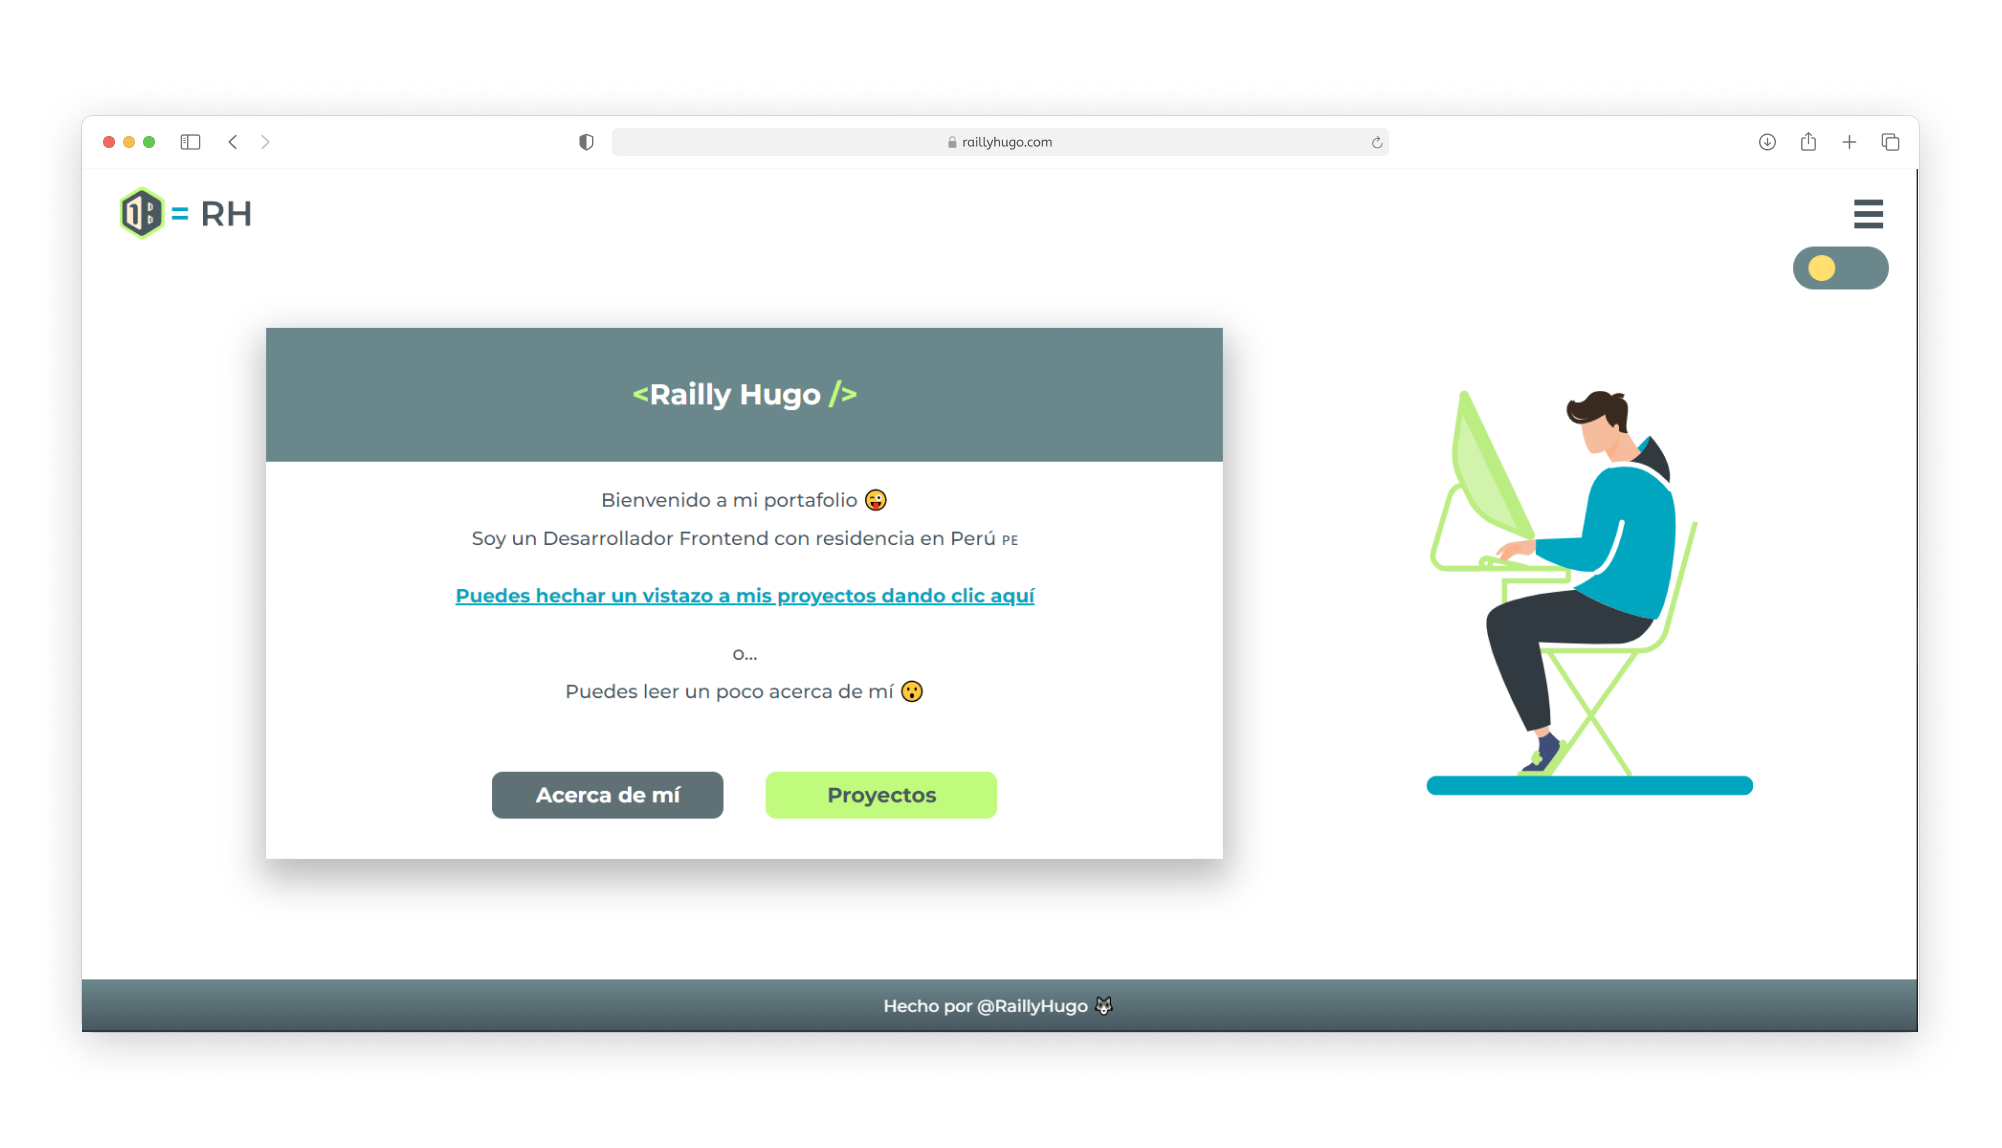
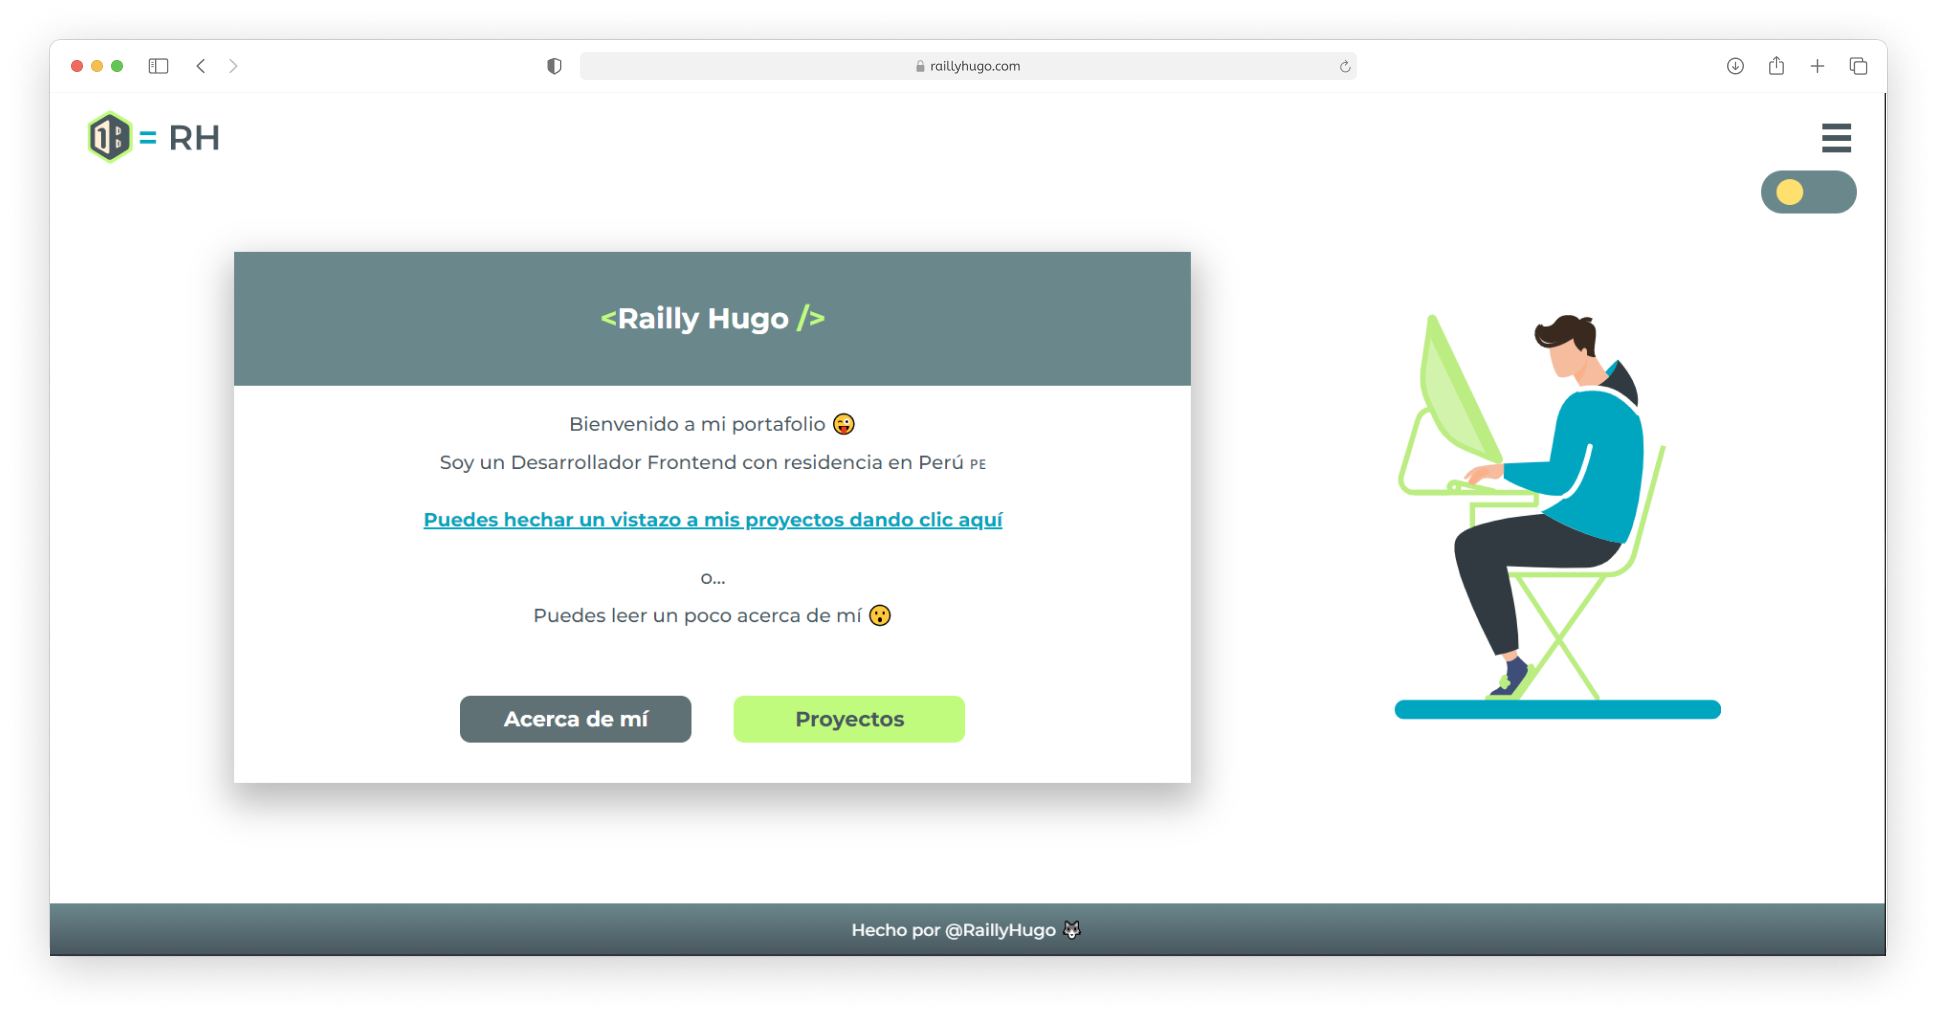
create new projects.mdx

diff --git a/pages/blog/[slug].js b/pages/blog/[slug].js
@@ -59,14 +59,14 @@ export default function PostPage({ meta, code }) {
       <div className="container max-w-3xl mx-auto px-4">
         <Heading.H1>{meta.title}</Heading.H1>
 
-        <div className="flex justify-evenly font-medium py-1 mt-4 dark:bg-opacity-50 text-indigo-600 bg-indigo-50 w-72 px-1 rounded-xl dark:text-gray-200 dark:bg-blue-700/30">
+        <div className="flex justify-evenly items-center font-medium py-1 mt-4 dark:bg-opacity-50 text-indigo-600 bg-indigo-50 w-72 px-1 rounded-xl dark:text-gray-200 dark:bg-blue-700/30">
           <Image
             className="rounded-full"
-            src="/profile.png"
-            width={25}
-            height={25}
+            src="/profile-3.png"
+            width={30}
+            height={30}
           />
-          <div>{`Railly Hugo`}</div>
+          <div className="font-bold">{`Railly Hugo`}</div>
           <div>{` => `}</div>
           <div>{format(parseISO(meta.publishedAt), "MMMM dd, yyyy")}</div>
         </div>

diff --git a/components/Markdown/index.js b/components/Markdown/index.js
@@ -6,20 +6,30 @@ import List from "./List";
 import Code from "./Pre";
 import Quote from "./Quote";
 import Strong from "./Strong";
+import Table from "./Table";
+import TableRow from "./TableRow";
+import TableCell from "./TableCell";
 import Text from "./Text";
+import Hr from "./Br";
 
 export const components = {
+  Anchor,
   Button,
   Image: ImageMd,
+  hr: Hr,
   a: Anchor,
+  blockquote: Quote,
   code: Code,
   h1: Heading.H1,
   h2: Heading.H2,
   h3: Heading.H3,
-  p: Text,
-  ul: List.Ul,
-  ol: List.Ol,
   li: List.Li,
+  ol: List.Ol,
+  p: Text,
   strong: Strong,
-  blockquote: Quote,
+  table: Table,
+  td: TableCell,
+  th: (props) => <TableCell bold {...props} />,
+  tr: TableRow,
+  ul: List.Ul,
 };

diff --git a/components/Markdown/List/index.js b/components/Markdown/List/index.js
@@ -1,19 +1,17 @@
-const Ol = ({ children }) => <ol className="mb-6">{children}</ol>;
+const Ol = ({ children }) => <ol className="mb-6 list-decimal">{children}</ol>;
 
-const Ul = ({ children }) => <ul className="mb-6">{children}</ul>;
+const Ul = ({ children }) => <ul className="mb-6 list-disc">{children}</ul>;
 
 const Li = ({ children }) => {
   return (
-    <>
+    <div className="ml-4">
       <li className="my-3 dark:text-gray-200">{children}</li>
       <style jsx>{`
-        li::before {
-          padding-right: 1em;
-          content: "•";
-          color: #d1d5db;
+        li::marker {
+          color: #999;
         }
       `}</style>
-    </>
+    </div>
   );
 };
 

diff --git a/components/ProjectPreview/index.js b/components/ProjectPreview/index.js
@@ -5,7 +5,7 @@ export default function ProjectPreview({ slug, image, title, description }) {
   return (
     <div>
       <Link href={`/projects/${slug}`}>
-        <a className="rounded-md p-3 group block hover:text-indigo-500  hover:bg-indigo-50 dark:hover:bg-gray-700 dark:text-gray-200 hover:scale-105 transition-transform">
+        <a className="rounded-md p-3 group block hover:bg-indigo-50 dark:hover:bg-gray-700 dark:text-gray-200 hover:scale-105 transition-transform">
           <div className="relative mb-4 overflow-hidden rounded-lg text-[0px]">
             <Image
               src={`/${image}`}

diff --git a/pages/index.js b/pages/index.js
@@ -33,14 +33,14 @@ export default function Home({ projects }) {
           </Button>
         </div>
       </div>
-      <div className="w-32 h-32 mt-10">
+      <div className="w-52 h-52 mt-10">
         <Image
           className="rounded-full"
-          blurDataURL="/profile.png"
-          src="/profile.png"
+          blurDataURL="/profile-3.png"
+          src="/profile-3.png"
           placeholder="blur"
-          width={200}
-          height={200}
+          width={400}
+          height={400}
         />
       </div>
     </>

diff --git a/components/Markdown/Anchor/index.js b/components/Markdown/Anchor/index.js
@@ -1,7 +1,7 @@
 export default function Anchor({ href, children }) {
   return (
     <a
-      className="text-indigo-600 border-b-2 border-indigo-400 border-dotted font-bold hover:text-indigo-400 hover:border-indigo-600 transition-colors"
+      className="text-indigo-500 border-b-2 border-indigo-500 border-dotted font-bold hover:text-indigo-400 hover:border-indigo-400 transition-colors"
       href={href}
       target="_blank"
       rel="noreferrer noopenner"

diff --git a/components/Markdown/Table/index.js b/components/Markdown/Table/index.js
@@ -1,0 +1,7 @@
+export default function Table(props) {
+  return (
+    <div className="border-dashed border-2 p-6 border-indigo-500 flex flex-col gap-3 w-full text-gray-700 dark:text-gray-200">
+      {props.children}
+    </div>
+  );
+}

diff --git a/components/Markdown/TableCell/index.js b/components/Markdown/TableCell/index.js
@@ -1,0 +1,7 @@
+export default function TableCell({ bold, children }) {
+  return bold ? (
+    <div className="w-20 sm:w-24 font-bold">{children}</div>
+  ) : (
+    <div className="w-20 sm:w-24">{children}</div>
+  );
+}

diff --git a/components/Markdown/TableRow/index.js b/components/Markdown/TableRow/index.js
@@ -1,0 +1,3 @@
+export default function TableRow(props) {
+  return <div className="flex justify-between text-left">{props.children}</div>;
+}

diff --git a/components/Markdown/Br/index.js b/components/Markdown/Br/index.js
@@ -1,0 +1,3 @@
+export default function Hr() {
+  return <hr className="dark:border-gray-500/30" />;
+}
